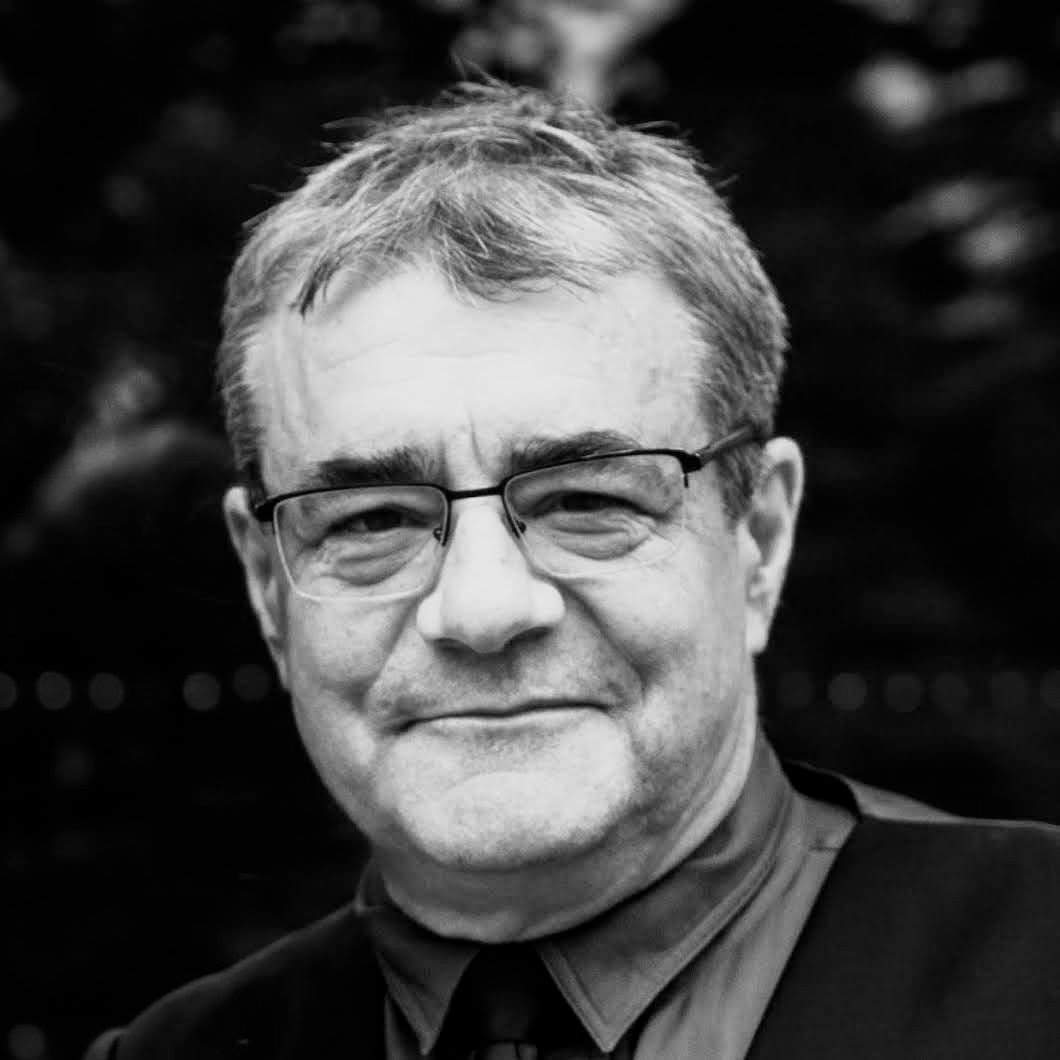
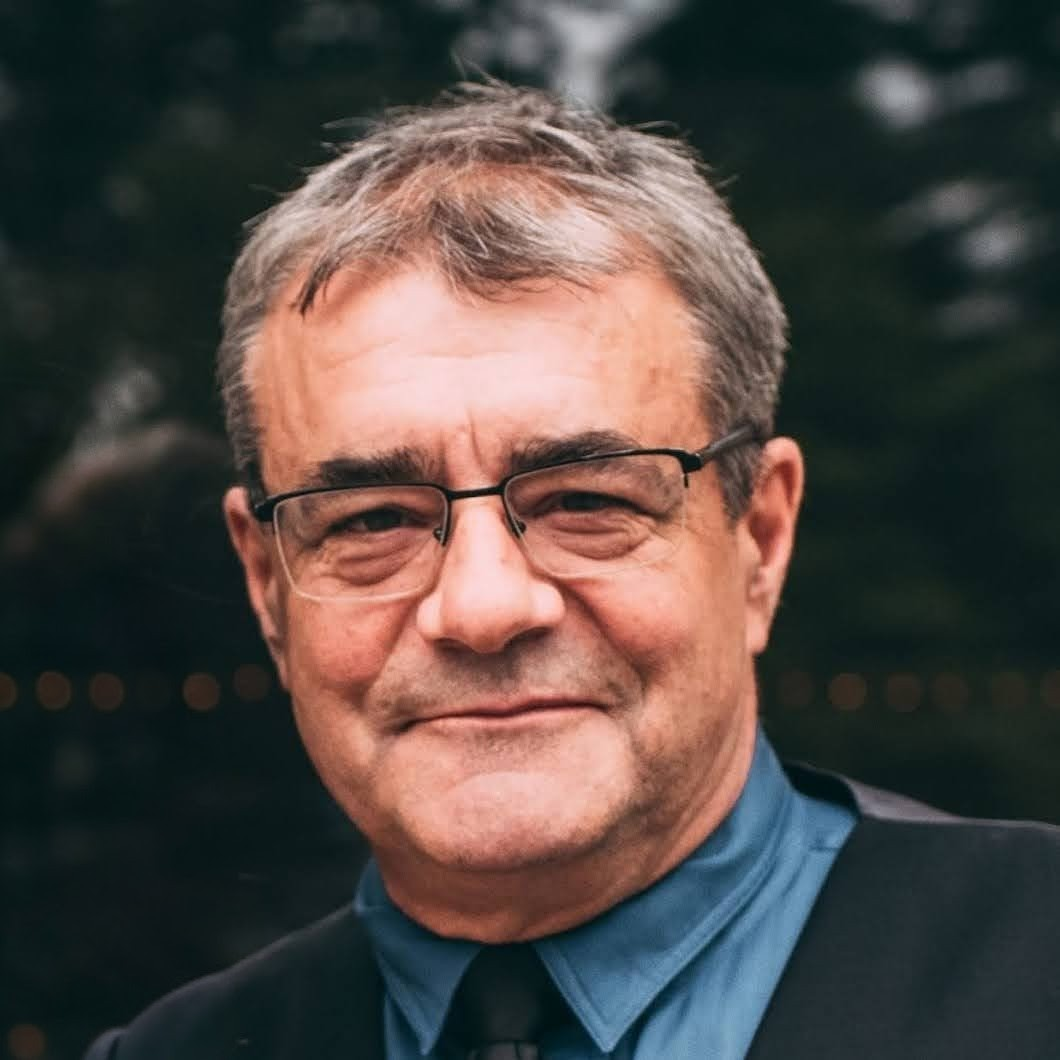
updated gallery and more

diff --git a/gallery.html b/gallery.html
@@ -304,52 +304,12 @@
         <div class="filter-bar fade-up">
           <button class="filter-btn active" data-filter="all">All Projects</button>
           <button class="filter-btn" data-filter="kitchen">Kitchens</button>
-          <button class="filter-btn" data-filter="carpentry">Custom Carpentry</button>
+          <button class="filter-btn" data-filter="bathroom">Bathrooms</button>
+          <button class="filter-btn" data-filter="basement">Basements</button>
+          <button class="filter-btn" data-filter="home">Custom Carpentry</button>
         </div>
 
-        <div class="gallery-grid" id="galleryGrid">
-
-          <div class="gallery-item fade-up" data-category="kitchen" data-title="Kitchen Renovation" data-location="Victoria, BC">
-            <img src="Photos/kitchen-white-jimrotz.jpeg" alt="White kitchen renovation with custom cabinetry by Jim Rotz, Victoria BC" loading="lazy" />
-            <div class="gallery-caption">
-              <span>Kitchen Renovation</span>
-              <em>Victoria, BC</em>
-            </div>
-          </div>
-
-          <div class="gallery-item fade-up delay-1" data-category="kitchen" data-title="Kitchen Renovation" data-location="Victoria, BC">
-            <img src="Photos/kitchen-jimrotz.jpeg" alt="Kitchen renovation with custom cabinetry and trim by Jim Rotz, Victoria BC" loading="lazy" />
-            <div class="gallery-caption">
-              <span>Kitchen Renovation</span>
-              <em>Victoria, BC</em>
-            </div>
-          </div>
-
-          <div class="gallery-item fade-up delay-2" data-category="carpentry" data-title="Custom Staircase" data-location="Victoria, BC">
-            <img src="Photos/staircase-jimrotz.jpeg" alt="Custom staircase built by Jim Rotz, Victoria BC" loading="lazy" />
-            <div class="gallery-caption">
-              <span>Custom Staircase</span>
-              <em>Victoria, BC</em>
-            </div>
-          </div>
-
-          <div class="gallery-item fade-up delay-1" data-category="carpentry" data-title="Staircase Carpentry" data-location="Victoria, BC">
-            <img src="Photos/Staircase%20JimRotz.jpg" alt="Staircase carpentry and finishing by Jim Rotz, Victoria BC" loading="lazy" />
-            <div class="gallery-caption">
-              <span>Staircase Carpentry</span>
-              <em>Victoria, BC</em>
-            </div>
-          </div>
-
-          <div class="gallery-item fade-up delay-2" data-category="carpentry" data-title="Fireplace Surround" data-location="Victoria, BC">
-            <img src="Photos/fireplacesurround-jimrotz.jpeg" alt="Custom fireplace surround built by Jim Rotz, Victoria BC" loading="lazy" />
-            <div class="gallery-caption">
-              <span>Fireplace Surround</span>
-              <em>Victoria, BC</em>
-            </div>
-          </div>
-
-        </div>
+        <div class="gallery-grid" id="galleryGrid"></div>
 
       </div>
     </section>
@@ -419,88 +379,111 @@
     toggle.addEventListener('click', () => links.classList.toggle('open'));
 
     // Scroll fade-in
-    const observer = new IntersectionObserver((entries) => {
-      entries.forEach(e => { if (e.isIntersecting) { e.target.style.animationPlayState = 'running'; observer.unobserve(e.target); } });
+    const fadeObserver = new IntersectionObserver((entries) => {
+      entries.forEach(e => { if (e.isIntersecting) { e.target.style.animationPlayState = 'running'; fadeObserver.unobserve(e.target); } });
     }, { threshold: 0.1 });
-    document.querySelectorAll('.fade-up').forEach(el => { el.style.animationPlayState = 'paused'; observer.observe(el); });
-
-    // Filter
-    const filterBtns = document.querySelectorAll('.filter-btn');
-    const items = document.querySelectorAll('.gallery-item');
-
-    filterBtns.forEach(btn => {
-      btn.addEventListener('click', () => {
-        filterBtns.forEach(b => b.classList.remove('active'));
-        btn.classList.add('active');
-        const filter = btn.dataset.filter;
-        items.forEach(item => {
-          const show = filter === 'all' || item.dataset.category === filter;
-          item.classList.toggle('hidden', !show);
-        });
-      });
-    });
+    document.querySelectorAll('.fade-up').forEach(el => { el.style.animationPlayState = 'paused'; fadeObserver.observe(el); });
 
     // Lightbox
-    const lightbox     = document.getElementById('lightbox');
-    const lightboxImg  = document.getElementById('lightboxImg');
+    const lightbox         = document.getElementById('lightbox');
+    const lightboxImg      = document.getElementById('lightboxImg');
     const lightboxTitle    = document.getElementById('lightboxTitle');
     const lightboxLocation = document.getElementById('lightboxLocation');
     const lightboxClose    = document.getElementById('lightboxClose');
     const lightboxPrev     = document.getElementById('lightboxPrev');
     const lightboxNext     = document.getElementById('lightboxNext');
-
     let currentIndex = 0;
     let visibleItems = [];
 
     function openLightbox(index) {
-      visibleItems = [...items].filter(i => !i.classList.contains('hidden'));
+      visibleItems = [...document.querySelectorAll('.gallery-item:not(.hidden)')];
       currentIndex = index;
       showSlide(currentIndex);
       lightbox.classList.add('open');
       document.body.style.overflow = 'hidden';
     }
-
     function closeLightbox() {
       lightbox.classList.remove('open');
       document.body.style.overflow = '';
     }
-
     function showSlide(index) {
       const item = visibleItems[index];
-      const img  = item.querySelector('img');
-      lightboxImg.src = img.src;
-      lightboxImg.alt = img.alt;
+      lightboxImg.src = item.querySelector('img').src;
+      lightboxImg.alt = item.querySelector('img').alt;
       lightboxTitle.textContent    = item.dataset.title;
       lightboxLocation.textContent = item.dataset.location;
     }
 
-    items.forEach((item, i) => {
-      item.addEventListener('click', () => {
-        visibleItems = [...items].filter(it => !it.classList.contains('hidden'));
-        const visibleIndex = visibleItems.indexOf(item);
-        openLightbox(visibleIndex);
-      });
-    });
-
     lightboxClose.addEventListener('click', closeLightbox);
     lightbox.addEventListener('click', e => { if (e.target === lightbox) closeLightbox(); });
-
-    lightboxPrev.addEventListener('click', () => {
-      currentIndex = (currentIndex - 1 + visibleItems.length) % visibleItems.length;
-      showSlide(currentIndex);
-    });
-
-    lightboxNext.addEventListener('click', () => {
-      currentIndex = (currentIndex + 1) % visibleItems.length;
-      showSlide(currentIndex);
-    });
-
+    lightboxPrev.addEventListener('click', () => { currentIndex = (currentIndex - 1 + visibleItems.length) % visibleItems.length; showSlide(currentIndex); });
+    lightboxNext.addEventListener('click', () => { currentIndex = (currentIndex + 1) % visibleItems.length; showSlide(currentIndex); });
     document.addEventListener('keydown', e => {
       if (!lightbox.classList.contains('open')) return;
       if (e.key === 'Escape') closeLightbox();
       if (e.key === 'ArrowLeft')  { currentIndex = (currentIndex - 1 + visibleItems.length) % visibleItems.length; showSlide(currentIndex); }
       if (e.key === 'ArrowRight') { currentIndex = (currentIndex + 1) % visibleItems.length; showSlide(currentIndex); }
     });
+
+    // Filter
+    const filterBtns = document.querySelectorAll('.filter-btn');
+    let activeFilter = 'all';
+
+    function applyFilter(filter) {
+      activeFilter = filter;
+      filterBtns.forEach(b => b.classList.toggle('active', b.dataset.filter === filter));
+      document.querySelectorAll('.gallery-item').forEach(item => {
+        const show = filter === 'all' || item.dataset.category === filter;
+        item.classList.toggle('hidden', !show);
+      });
+    }
+
+    filterBtns.forEach(btn => btn.addEventListener('click', () => applyFilter(btn.dataset.filter)));
+
+    // Build gallery from photos.json
+    // Category map: JSON key -> filter data-filter value and label
+    const categoryMap = {
+      kitchen:  { filter: 'kitchen',  label: 'Kitchen' },
+      bathroom: { filter: 'bathroom', label: 'Bathroom' },
+      basement: { filter: 'basement', label: 'Basement' },
+      home:     { filter: 'home',     label: 'Custom Carpentry' }
+    };
+
+    fetch('photos.json')
+      .then(r => r.json())
+      .then(data => {
+        const grid = document.getElementById('galleryGrid');
+        const delays = ['', 'delay-1', 'delay-2', 'delay-3', 'delay-4'];
+        let i = 0;
+
+        Object.entries(data).forEach(([category, photos]) => {
+          photos.forEach(p => {
+            const cat = categoryMap[category] || { filter: category, label: category };
+            const div = document.createElement('div');
+            div.className = `gallery-item fade-up ${delays[i % delays.length]}`;
+            div.dataset.category = cat.filter;
+            div.dataset.title    = p.title || cat.label;
+            div.dataset.location = p.location || 'Victoria, BC';
+            div.innerHTML = `
+              <img src="${p.src}" alt="${p.alt}" loading="lazy" />
+              <div class="gallery-caption">
+                <span>${p.title || cat.label}</span>
+                <em>${p.location || 'Victoria, BC'}</em>
+              </div>`;
+            div.addEventListener('click', () => {
+              visibleItems = [...document.querySelectorAll('.gallery-item:not(.hidden)')];
+              openLightbox(visibleItems.indexOf(div));
+            });
+            grid.appendChild(div);
+            fadeObserver.observe(div);
+            div.style.animationPlayState = 'paused';
+            i++;
+          });
+        });
+
+        // Re-apply active filter after build
+        applyFilter(activeFilter);
+      });
   </script>
 
 </body>

diff --git a/home-renovations.html b/home-renovations.html
@@ -57,6 +57,7 @@
 
     .lead { font-size: 18px; font-weight: 300; color: var(--cream-dim); line-height: 1.75; margin-bottom: 40px; border-left: 2px solid var(--warm); padding-left: 24px; }
 
+    .photo-grid { display: grid; gap: 8px; }
     .inclusions { display: grid; grid-template-columns: repeat(auto-fill, minmax(200px, 1fr)); gap: 16px; margin-bottom: 40px; }
     .inclusion-item { background: #fff; border: 1px solid var(--rule); padding: 20px 18px; display: flex; align-items: flex-start; gap: 12px; transition: background 0.25s; }
     .inclusion-item:hover { background: var(--warm-dim); }
@@ -119,10 +120,7 @@
         <h1 class="section-title fade-up delay-1">General Home <em>Renovations</em></h1>
         <p class="section-lead fade-up delay-2">Not everything fits neatly into a category. Flooring, doors, decks, built-ins, repairs. If it's your home and it needs doing, Jim's probably done something similar a dozen times.</p>
         <div class="fade-up delay-3">
-          <div style="display:grid; grid-template-columns:1fr 1fr; gap:8px; margin-bottom:40px;">
-            <img src="Photos/staircase-jimrotz.jpeg" alt="Custom staircase built by Jim Rotz, Victoria BC" style="width:100%; aspect-ratio:4/3; object-fit:cover; border-radius:2px; border:1px solid var(--rule);" />
-            <img src="Photos/fireplacesurround-jimrotz.jpeg" alt="Custom fireplace surround built by Jim Rotz, Victoria BC" style="width:100%; aspect-ratio:4/3; object-fit:cover; border-radius:2px; border:1px solid var(--rule);" />
-          </div>
+          <div class="photo-grid" id="servicePhotos" style="margin-bottom:40px;"></div>
           <div class="inclusions">
             <div class="inclusion-item"><div class="inclusion-check"><svg viewBox="0 0 12 12"><polyline points="2 6 5 9 10 3"/></svg></div><span>Flooring throughout</span></div>
             <div class="inclusion-item"><div class="inclusion-check"><svg viewBox="0 0 12 12"><polyline points="2 6 5 9 10 3"/></svg></div><span>Interior doors &amp; trim</span></div>
@@ -210,6 +208,22 @@
       entries.forEach(e => { if (e.isIntersecting) { e.target.style.animationPlayState = 'running'; observer.unobserve(e.target); } });
     }, { threshold: 0.12 });
     document.querySelectorAll('.fade-up').forEach(el => { el.style.animationPlayState = 'paused'; observer.observe(el); });
+
+    fetch('photos.json')
+      .then(r => r.json())
+      .then(data => {
+        const photos = data['home'] || [];
+        const grid = document.getElementById('servicePhotos');
+        if (!photos.length) { grid.style.display = 'none'; return; }
+        grid.style.gridTemplateColumns = photos.length === 1 ? '1fr' : 'repeat(auto-fill, minmax(280px, 1fr))';
+        photos.forEach(p => {
+          const img = document.createElement('img');
+          img.src = p.src;
+          img.alt = p.alt;
+          img.style.cssText = 'width:100%; aspect-ratio:4/3; object-fit:cover; border-radius:2px; border:1px solid var(--rule);';
+          grid.appendChild(img);
+        });
+      });
   </script>
 
 </body>

diff --git a/basement-finishing.html b/basement-finishing.html
@@ -57,6 +57,7 @@
 
     .lead { font-size: 18px; font-weight: 300; color: var(--cream-dim); line-height: 1.75; margin-bottom: 40px; border-left: 2px solid var(--warm); padding-left: 24px; }
 
+    .photo-grid { display: grid; gap: 8px; }
     .inclusions { display: grid; grid-template-columns: repeat(auto-fill, minmax(200px, 1fr)); gap: 16px; margin-bottom: 40px; }
     .inclusion-item { background: #fff; border: 1px solid var(--rule); padding: 20px 18px; display: flex; align-items: flex-start; gap: 12px; transition: background 0.25s; }
     .inclusion-item:hover { background: var(--warm-dim); }
@@ -119,9 +120,7 @@
         <h1 class="section-title fade-up delay-1">Basement <em>Finishing</em></h1>
         <p class="section-lead fade-up delay-2">Most unfinished basements are just wasted space. Jim can change that. Suites, rec rooms, home offices, extra bedrooms. He handles the whole thing himself so you're not juggling three different trades.</p>
         <div class="fade-up delay-3">
-          <div style="margin-bottom:40px;">
-            <img src="Photos/Staircase%20JimRotz.jpg" alt="Custom basement staircase with finish carpentry by Jim Rotz, Victoria BC" style="width:100%; aspect-ratio:16/9; object-fit:cover; border-radius:2px; border:1px solid var(--rule);" />
-          </div>
+          <div class="photo-grid" id="servicePhotos" style="margin-bottom:40px;"></div>
           <div class="inclusions">
             <div class="inclusion-item"><div class="inclusion-check"><svg viewBox="0 0 12 12"><polyline points="2 6 5 9 10 3"/></svg></div><span>Framing &amp; layout</span></div>
             <div class="inclusion-item"><div class="inclusion-check"><svg viewBox="0 0 12 12"><polyline points="2 6 5 9 10 3"/></svg></div><span>Drywall &amp; insulation</span></div>
@@ -209,6 +208,22 @@
       entries.forEach(e => { if (e.isIntersecting) { e.target.style.animationPlayState = 'running'; observer.unobserve(e.target); } });
     }, { threshold: 0.12 });
     document.querySelectorAll('.fade-up').forEach(el => { el.style.animationPlayState = 'paused'; observer.observe(el); });
+
+    fetch('photos.json')
+      .then(r => r.json())
+      .then(data => {
+        const photos = data['basement'] || [];
+        const grid = document.getElementById('servicePhotos');
+        if (!photos.length) { grid.style.display = 'none'; return; }
+        grid.style.gridTemplateColumns = photos.length === 1 ? '1fr' : 'repeat(auto-fill, minmax(280px, 1fr))';
+        photos.forEach(p => {
+          const img = document.createElement('img');
+          img.src = p.src;
+          img.alt = p.alt;
+          img.style.cssText = 'width:100%; aspect-ratio:4/3; object-fit:cover; border-radius:2px; border:1px solid var(--rule);';
+          grid.appendChild(img);
+        });
+      });
   </script>
 
 </body>

diff --git a/kitchen-renovations.html b/kitchen-renovations.html
@@ -93,6 +93,8 @@
       padding-left: 24px;
     }
 
+    .photo-grid { display: grid; gap: 8px; }
+
     .inclusions {
       display: grid;
       grid-template-columns: repeat(auto-fill, minmax(200px, 1fr));
@@ -202,10 +204,7 @@
         <h1 class="section-title fade-up delay-1">Kitchen <em>Renovations</em></h1>
         <p class="section-lead fade-up delay-2">Kitchens are the most-used room in your house. Jim's done hundreds of them across Victoria. Cabinets, countertops, tile, flooring, layout changes. He takes the work seriously.</p>
         <div class="fade-up delay-3">
-          <div style="display:grid; grid-template-columns:1fr 1fr; gap:8px; margin-bottom:40px;">
-            <img src="Photos/kitchen-white-jimrotz.jpeg" alt="White kitchen renovation by Jim Rotz, Victoria BC" style="width:100%; aspect-ratio:4/3; object-fit:cover; border-radius:2px; border:1px solid var(--rule);" />
-            <img src="Photos/kitchen-jimrotz.jpeg" alt="Kitchen renovation with custom cabinetry by Jim Rotz, Victoria BC" style="width:100%; aspect-ratio:4/3; object-fit:cover; border-radius:2px; border:1px solid var(--rule);" />
-          </div>
+          <div class="photo-grid" id="servicePhotos" style="margin-bottom:40px;"></div>
           <div class="inclusions">
             <div class="inclusion-item"><div class="inclusion-check"><svg viewBox="0 0 12 12"><polyline points="2 6 5 9 10 3"/></svg></div><span>Cabinet installation &amp; custom built-ins</span></div>
             <div class="inclusion-item"><div class="inclusion-check"><svg viewBox="0 0 12 12"><polyline points="2 6 5 9 10 3"/></svg></div><span>Countertop fitting &amp; trim work</span></div>
@@ -293,6 +292,22 @@
       entries.forEach(e => { if (e.isIntersecting) { e.target.style.animationPlayState = 'running'; observer.unobserve(e.target); } });
     }, { threshold: 0.12 });
     document.querySelectorAll('.fade-up').forEach(el => { el.style.animationPlayState = 'paused'; observer.observe(el); });
+
+    fetch('photos.json')
+      .then(r => r.json())
+      .then(data => {
+        const photos = data['kitchen'] || [];
+        const grid = document.getElementById('servicePhotos');
+        if (!photos.length) { grid.style.display = 'none'; return; }
+        grid.style.gridTemplateColumns = photos.length === 1 ? '1fr' : 'repeat(auto-fill, minmax(280px, 1fr))';
+        photos.forEach(p => {
+          const img = document.createElement('img');
+          img.src = p.src;
+          img.alt = p.alt;
+          img.style.cssText = 'width:100%; aspect-ratio:4/3; object-fit:cover; border-radius:2px; border:1px solid var(--rule);';
+          grid.appendChild(img);
+        });
+      });
   </script>
 
 </body>

diff --git a/bathroom-renovations.html b/bathroom-renovations.html
@@ -83,6 +83,8 @@
       padding-left: 24px;
     }
 
+    .photo-grid { display: grid; gap: 8px; }
+
     .inclusions {
       display: grid;
       grid-template-columns: repeat(auto-fill, minmax(200px, 1fr));
@@ -172,6 +174,7 @@
         <h1 class="section-title fade-up delay-1">Bathroom <em>Renovations</em></h1>
         <p class="section-lead fade-up delay-2">Bathrooms are small but unforgiving. Bad tile, a vanity that doesn't sit right, trim that's slightly off. You notice it every day. Jim's done plenty of bathroom renos across Victoria and he gets the details right.</p>
         <div class="fade-up delay-3">
+          <div class="photo-grid" id="servicePhotos" style="margin-bottom:40px;"></div>
           <div class="inclusions">
             <div class="inclusion-item"><div class="inclusion-check"><svg viewBox="0 0 12 12"><polyline points="2 6 5 9 10 3"/></svg></div><span>Vanity &amp; cabinet installation</span></div>
             <div class="inclusion-item"><div class="inclusion-check"><svg viewBox="0 0 12 12"><polyline points="2 6 5 9 10 3"/></svg></div><span>Tile &amp; shower surround</span></div>
@@ -259,6 +262,22 @@
       entries.forEach(e => { if (e.isIntersecting) { e.target.style.animationPlayState = 'running'; observer.unobserve(e.target); } });
     }, { threshold: 0.12 });
     document.querySelectorAll('.fade-up').forEach(el => { el.style.animationPlayState = 'paused'; observer.observe(el); });
+
+    fetch('photos.json')
+      .then(r => r.json())
+      .then(data => {
+        const photos = data['bathroom'] || [];
+        const grid = document.getElementById('servicePhotos');
+        if (!photos.length) { grid.style.display = 'none'; return; }
+        grid.style.gridTemplateColumns = photos.length === 1 ? '1fr' : 'repeat(auto-fill, minmax(280px, 1fr))';
+        photos.forEach(p => {
+          const img = document.createElement('img');
+          img.src = p.src;
+          img.alt = p.alt;
+          img.style.cssText = 'width:100%; aspect-ratio:4/3; object-fit:cover; border-radius:2px; border:1px solid var(--rule);';
+          grid.appendChild(img);
+        });
+      });
   </script>
 
 </body>
